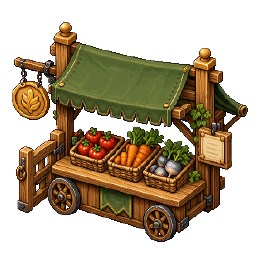
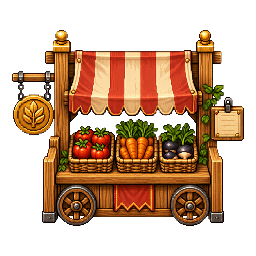
fix: align farm roads and market cart

diff --git a/app/apps/farm-sim/render/worldRenderer.ts b/app/apps/farm-sim/render/worldRenderer.ts
@@ -37,7 +37,7 @@ function drawExternalImg(ctx: CanvasRenderingContext2D, src: string, sx: number,
 }
 
 const GENERATED_ASSET_ROOT = '/farm-generated-v2';
-const GENERATED_ASSET_VERSION = 4;
+const GENERATED_ASSET_VERSION = 5;
 
 function drawGenerated(
   ctx: CanvasRenderingContext2D,
@@ -70,6 +70,44 @@ function channelSprite(tiles: Tile[], idx: number): string {
   const right = col < GRID_SIZE - 1 ? tiles[idx + 1].kind : null;
   if (left === 'channel' || right === 'channel') return 'channel_h';
   return 'channel_v';
+}
+
+function drawPathTile(
+  ctx: CanvasRenderingContext2D,
+  tiles: Tile[],
+  idx: number,
+  wx: number,
+  wy: number,
+) {
+  const row = Math.floor(idx / GRID_SIZE);
+  const col = idx % GRID_SIZE;
+  const connects = (candidate: number | null) => {
+    if (candidate === null) return false;
+    return ['path', 'shed', 'market', 'mill', 'depot'].includes(tiles[candidate]?.kind);
+  };
+  const north = connects(row > 0 ? idx - GRID_SIZE : null);
+  const south = connects(row < GRID_SIZE - 1 ? idx + GRID_SIZE : null);
+  const west = connects(col > 0 ? idx - 1 : null);
+  const east = connects(col < GRID_SIZE - 1 ? idx + 1 : null);
+
+  drawGenerated(ctx, `grass-${String.fromCharCode(97 + Number(grassVariant(idx).at(-1)))}`, wx, wy, TILE_PX, TILE_PX);
+
+  const clippedRoad = (name: 'path' | 'path-h', x: number, y: number, w: number, h: number) => {
+    ctx.save();
+    ctx.beginPath();
+    ctx.rect(x, y, w, h);
+    ctx.clip();
+    drawGenerated(ctx, name, wx, wy, TILE_PX, TILE_PX);
+    ctx.restore();
+  };
+
+  if (north) clippedRoad('path', wx, wy, TILE_PX, TILE_PX / 2);
+  if (south) clippedRoad('path', wx, wy + TILE_PX / 2, TILE_PX, TILE_PX / 2);
+  if (west) clippedRoad('path-h', wx, wy, TILE_PX / 2, TILE_PX);
+  if (east) clippedRoad('path-h', wx + TILE_PX / 2, wy, TILE_PX / 2, TILE_PX);
+
+  // Fill the shared center last so corners and junctions have no grass seam.
+  clippedRoad(north || south || (!west && !east) ? 'path' : 'path-h', wx + 7, wy + 7, TILE_PX - 14, TILE_PX - 14);
 }
 
 function isReservoir(idx: number): boolean {
@@ -281,7 +319,7 @@ function buildGroundCache(
     } else if (spriteName === 'tilled_dry') {
       drawGenerated(ctx, 'soil-dry', wx, wy, TILE_PX, TILE_PX);
     } else if (spriteName === 'path') {
-      drawGenerated(ctx, 'path', wx, wy, TILE_PX, TILE_PX);
+      drawPathTile(ctx, tiles, idx, wx, wy);
     } else if (spriteName === 'channel_h') {
       drawGenerated(ctx, 'channel-h', wx, wy, TILE_PX, TILE_PX);
     } else if (spriteName === 'channel_v') {